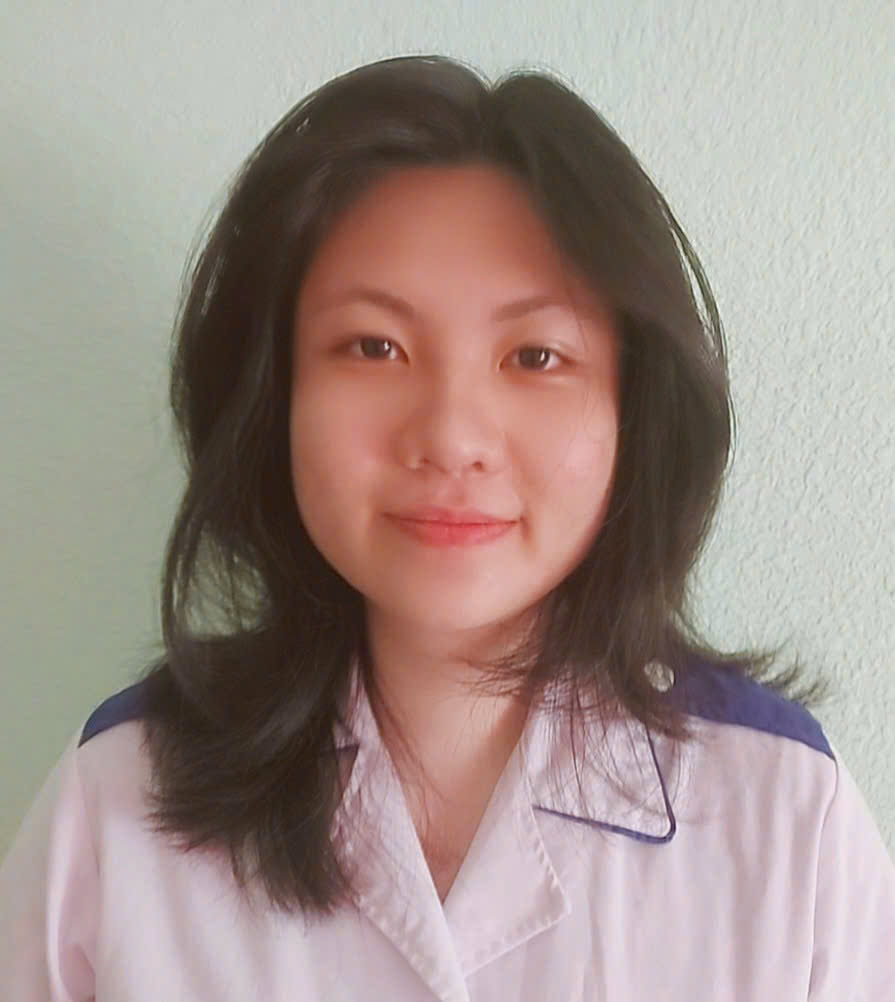
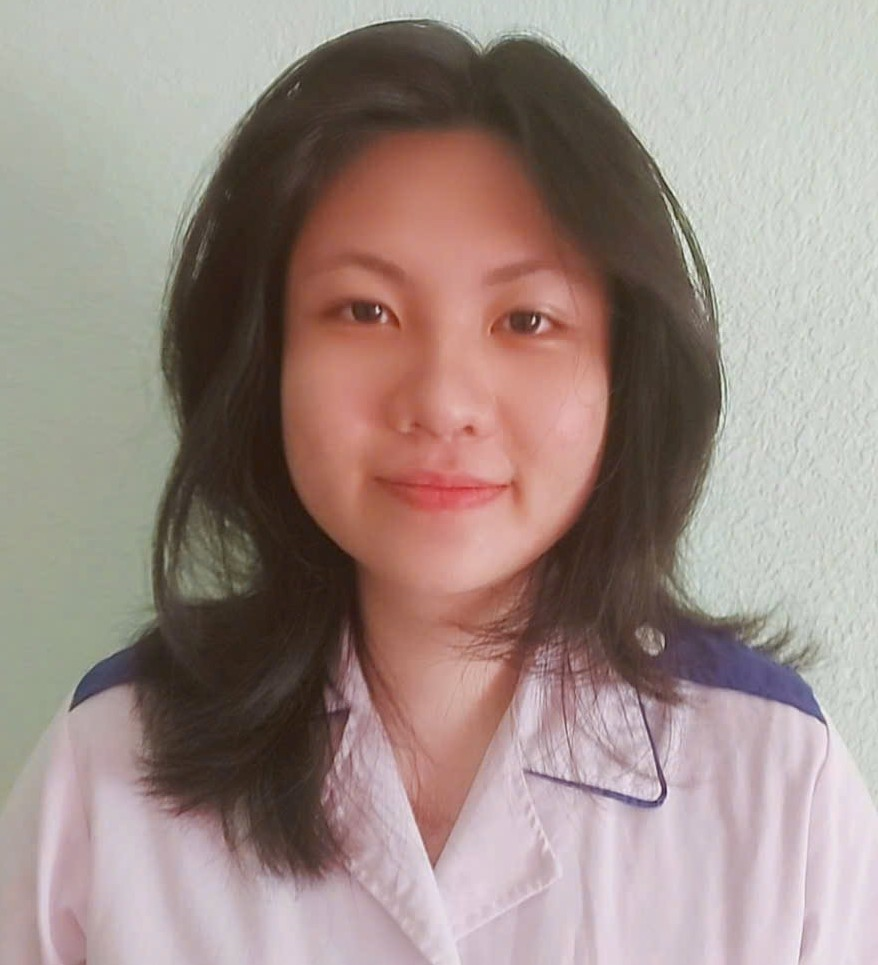
website
website group1

diff --git a/css/index.css.css b/css/index.css.css
@@ -152,7 +152,7 @@
       gap: 20px;
     }
     .member-box img {
-      width: 150px; /* Increased size */
+      width: 120px; /* Increased size */
       height: 150px; /* Added height to maintain aspect ratio */
       border-radius: 8px;
     }

diff --git a/index.html b/index.html
@@ -152,7 +152,7 @@
       gap: 20px;
     }
     .member-box img {
-      width: 150px; /* Increased size */
+      width: 120px; /* Increased size */
       height: 150px; /* Added height to maintain aspect ratio */
       border-radius: 8px;
     }
